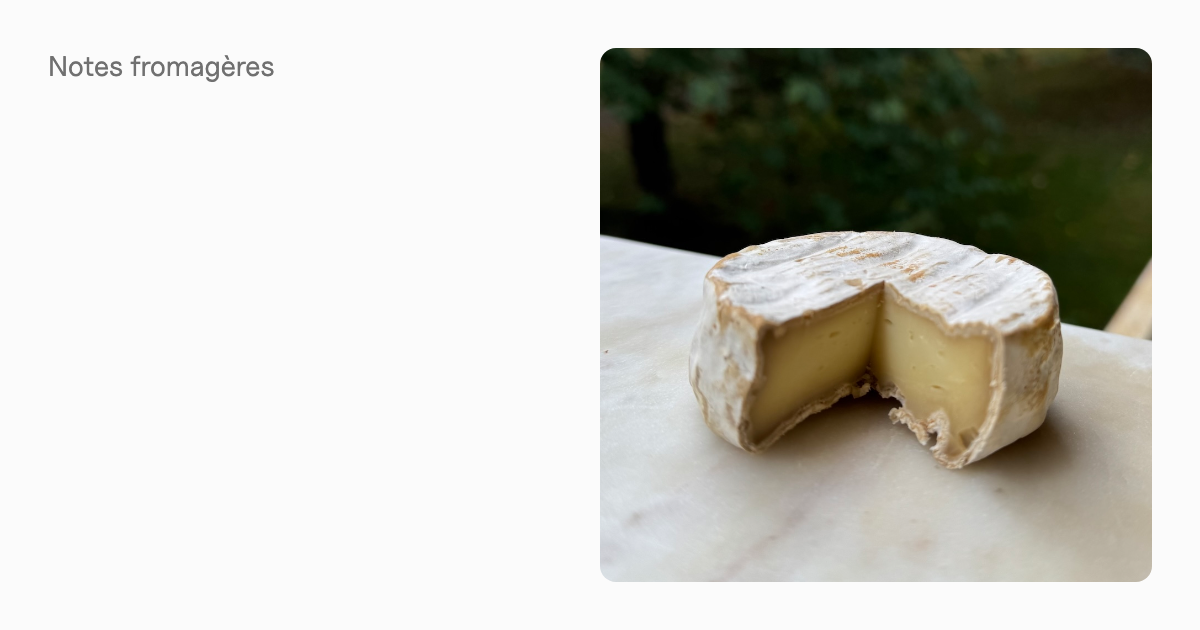
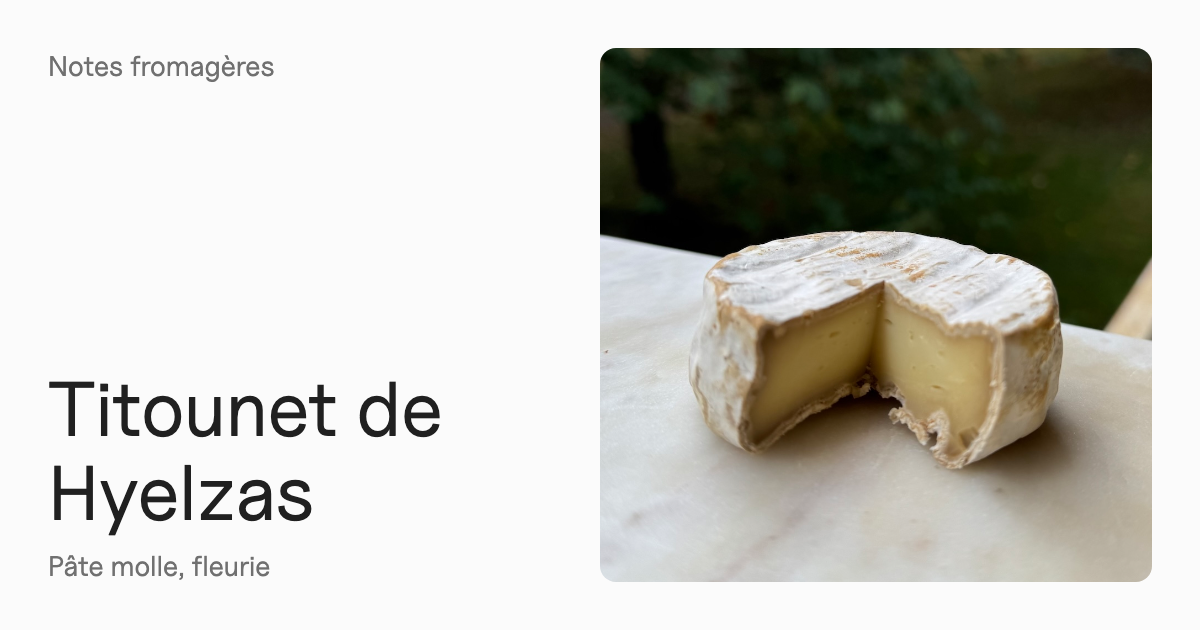
Add cheeses
- 2026-10-10-titounet-de-hyelzas.md
- 2026-10-10-la-fleurie.md

Changed region(s): [[0.0308, 0.6032, 0.37, 0.6937], [0.0308, 0.754, 0.2775, 0.8444], [0.0308, 0.8746, 0.2158, 0.9349]]

diff --git a/_posts/2026-10-10-titounet-de-hyelzas.md b/_posts/2026-10-10-titounet-de-hyelzas.md
@@ -1,29 +1,30 @@
 ---
 layout: post
-title:  ""
-rating-date: "2024-02-21"
-note: "5"
-milk: 
+title:  "Titounet de Hyelzas"
+rating-date: "2026-10-10"
+note: "4"
+milk: brebis
 image: /images/posts/titounet-de-hyelzas.jpg
-image-credit: 
-comment: ""
+image-credit: Photo prise par moi-même
+comment: "Ce fromage est contenu dans une petite boîte en bois. L'odeur puissante, limite piquante vous parfume le nez sans hésitation, un uppercut en somme ! Pour cette première dégustation, j’ai choisi un fromage particulièrement fait, ce qui explique cela. Mon fromager en propose des moins puissants. En bouche, le goût animal est explosif et tient en longueur. La texture est ferme. C'est un fromage avec beaucoup de caractère, la croûte fleurie y est pour quelque chose. Je vous conseille de le prendre moins puissant que moi."
 tags:
-    - 
-tags-preview: ""
+    - Pâte molle
+    - Pâte fleurie
+tags-preview: "Pâte molle, fleurie"
 ressources:
-    - url: 
+    - url: https://www.leguidedufromage.com/lou-titounet-io910.html
 ---
 
 ## Informations
 
-| **Appellation** |  |
-| **Origine géographique** | , France |
-| **Pâte** |  |
-| **Lait** |  |
-| **Forme** |  |
-| **Odeur** |  |
-| **Texture** |  |
-| **Affinage** |  |
-| **Meilleure période de dégustation** |  |
-| **Boisson(s)** |  |
-| **Prix** |  |
+| **Appellation** | N/A |
+| **Origine géographique** | Hures la Parade, Lozère, Occitanie, France |
+| **Pâte** | Molle, fleurie |
+| **Lait** | Brebis, thermisé |
+| **Forme** | Cylindrique |
+| **Odeur** | Puissante, animale |
+| **Texture** | Ferme |
+| **Affinage** | N/A |
+| **Meilleure période de dégustation** | Dégusté en octobre |
+| **Boisson(s)** | Bonne question ! |
+| **Prix** | 7,95 € pièce |

diff --git a/_posts/2026-10-10-la-fleurie.md b/_posts/2026-10-10-la-fleurie.md
@@ -13,18 +13,19 @@ tags:
 tags-preview: "Pâte pressée, non cuite"
 ressources:
     - url: https://gratiot-grossiste.fr/web/La-Tomme-des-Bonnefoi-LA-FLEURIE
+    - url: https://www.terres-auvergne.fr/fromages/tommes-des-bonnefoi
 ---
 
 ## Informations
 
 | **Appellation** | N/A |
-| **Origine géographique** | , France |
-| **Pâte** |  |
-| **Lait** |  |
-| **Forme** |  |
-| **Odeur** |  |
-| **Texture** |  |
-| **Affinage** |  |
-| **Meilleure période de dégustation** |  |
-| **Boisson(s)** |  |
+| **Origine géographique** | Puy-de-Dôme, Auvergne-Rhône-Alpes, France |
+| **Pâte** | Pressée, non cuite |
+| **Lait** | Vache |
+| **Forme** | Ronde |
+| **Odeur** | Noix |
+| **Texture** | Fondante |
+| **Affinage** | Je ne sais pas |
+| **Meilleure période de dégustation** | Acheté en octobre |
+| **Boisson(s)** | Bière ambrée |
 | **Prix** | 38,00 € /kg |
